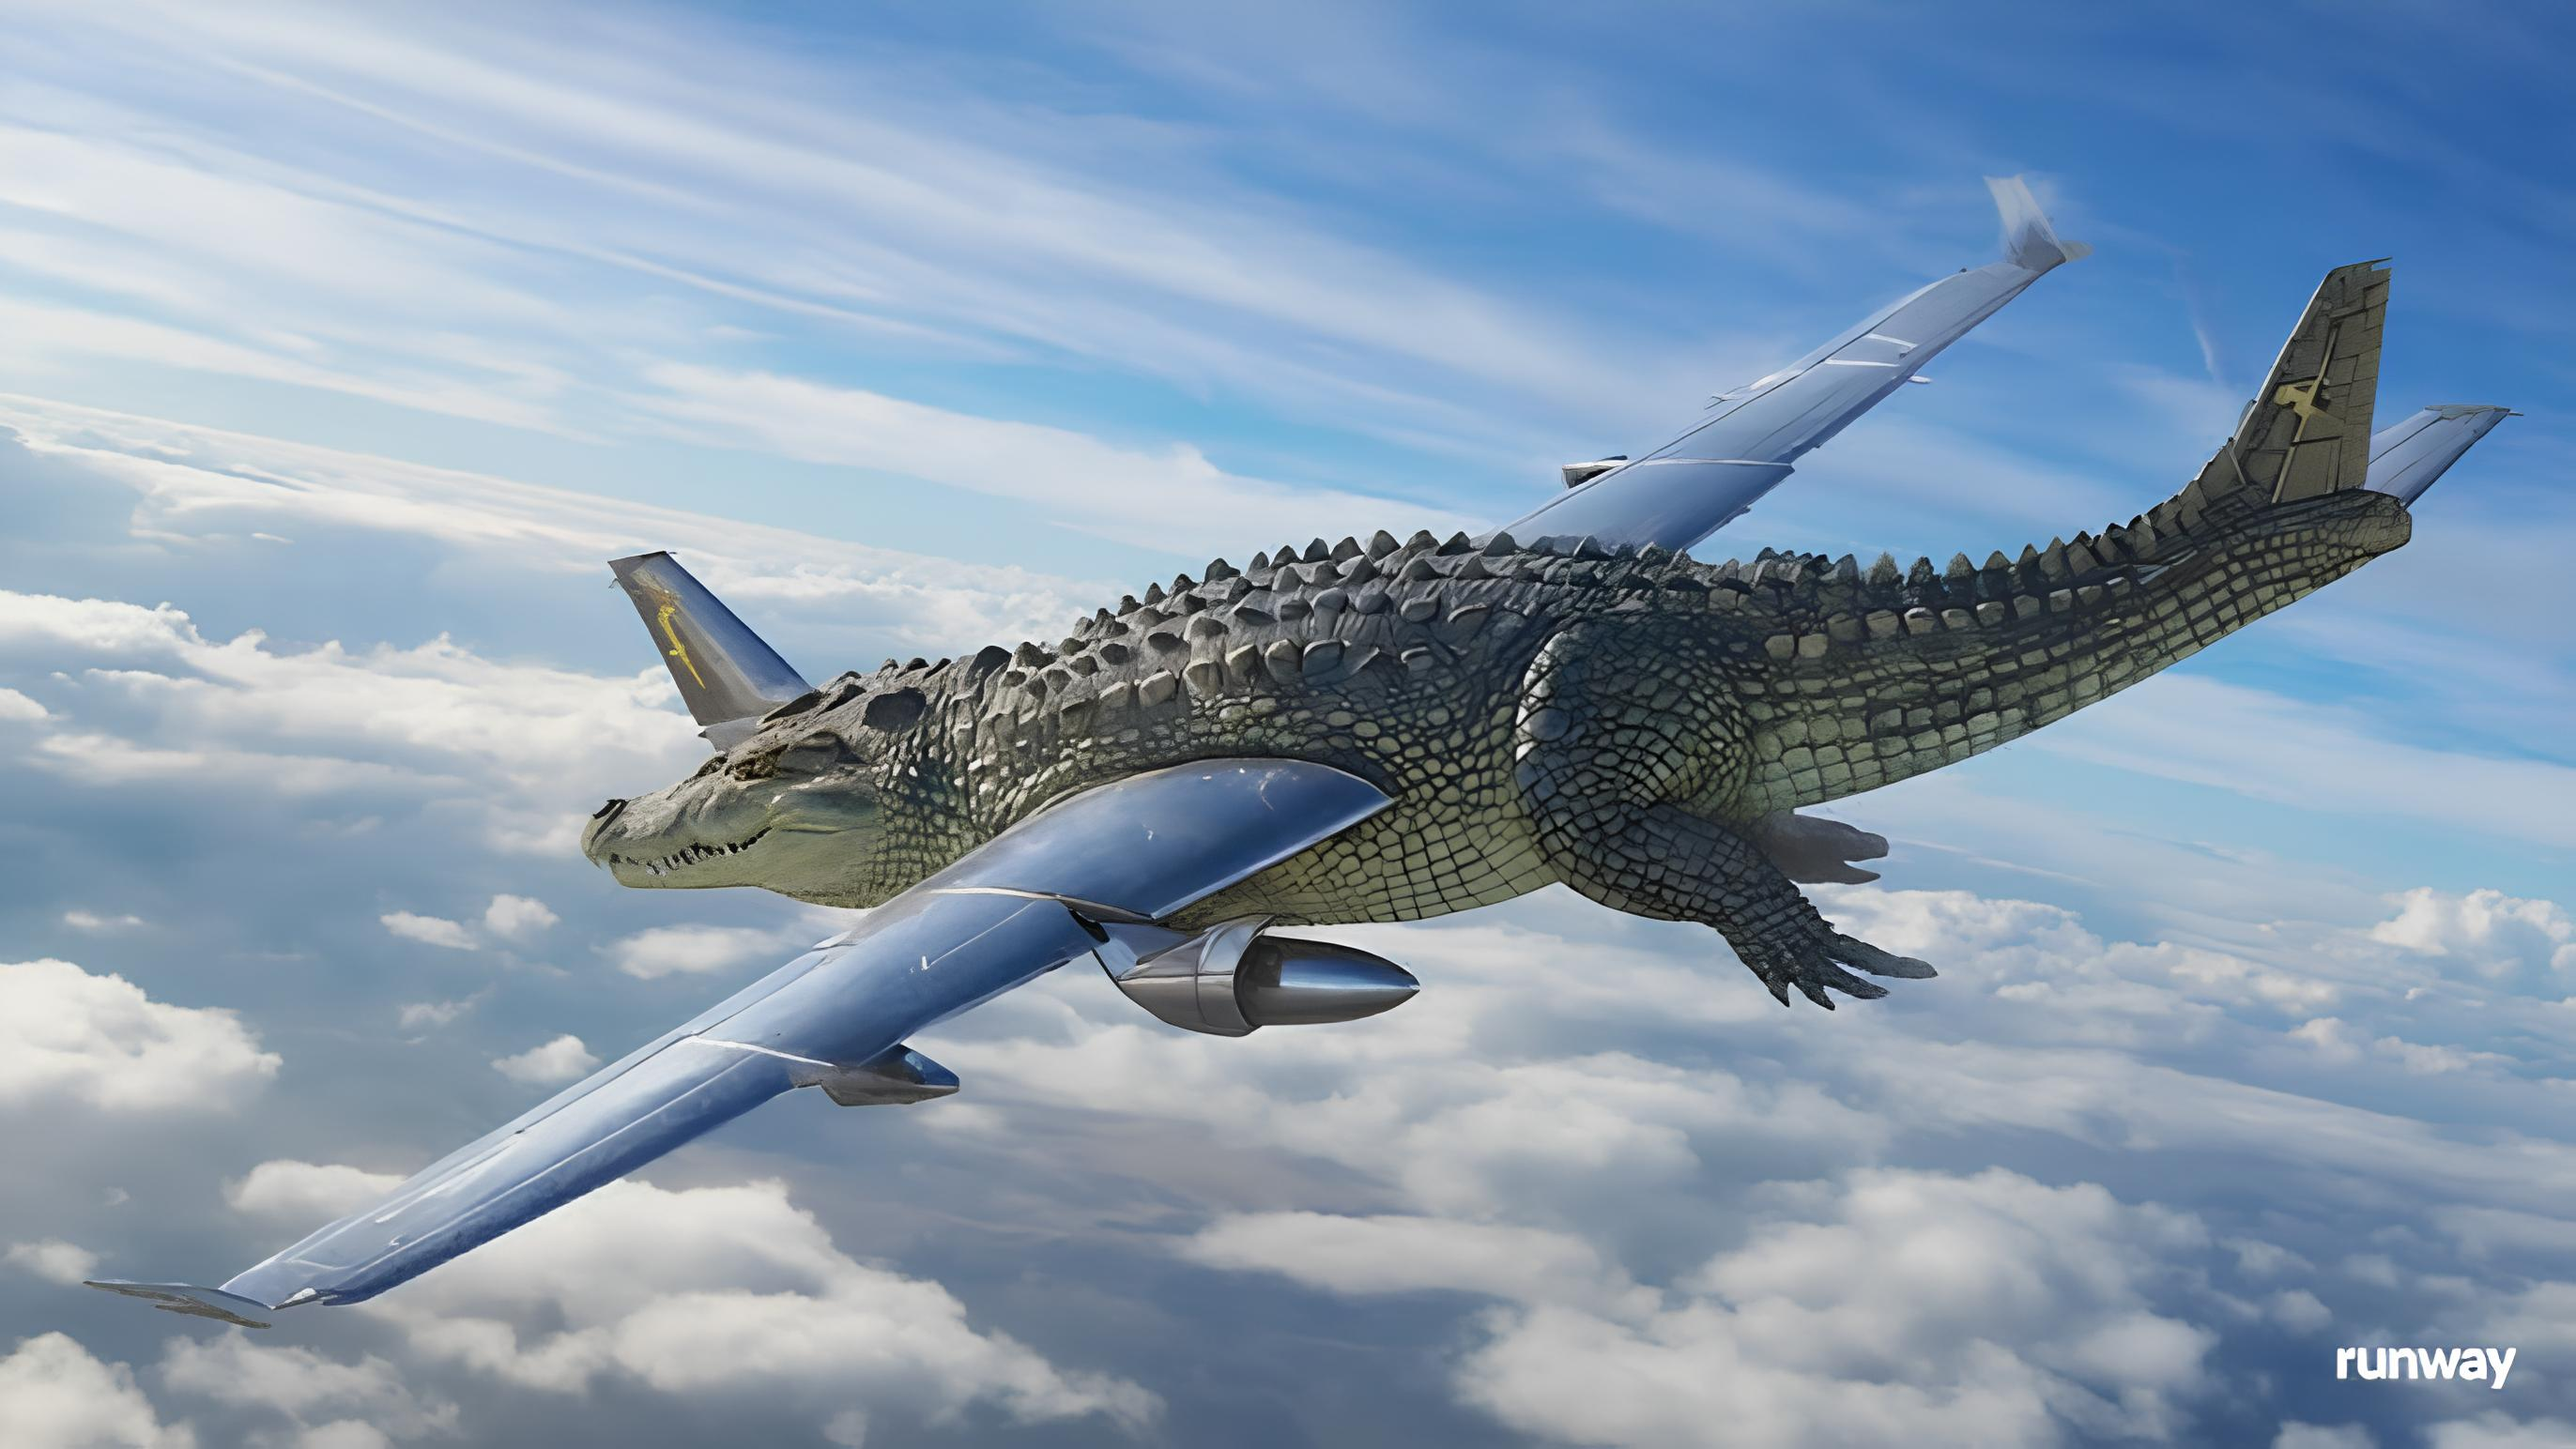
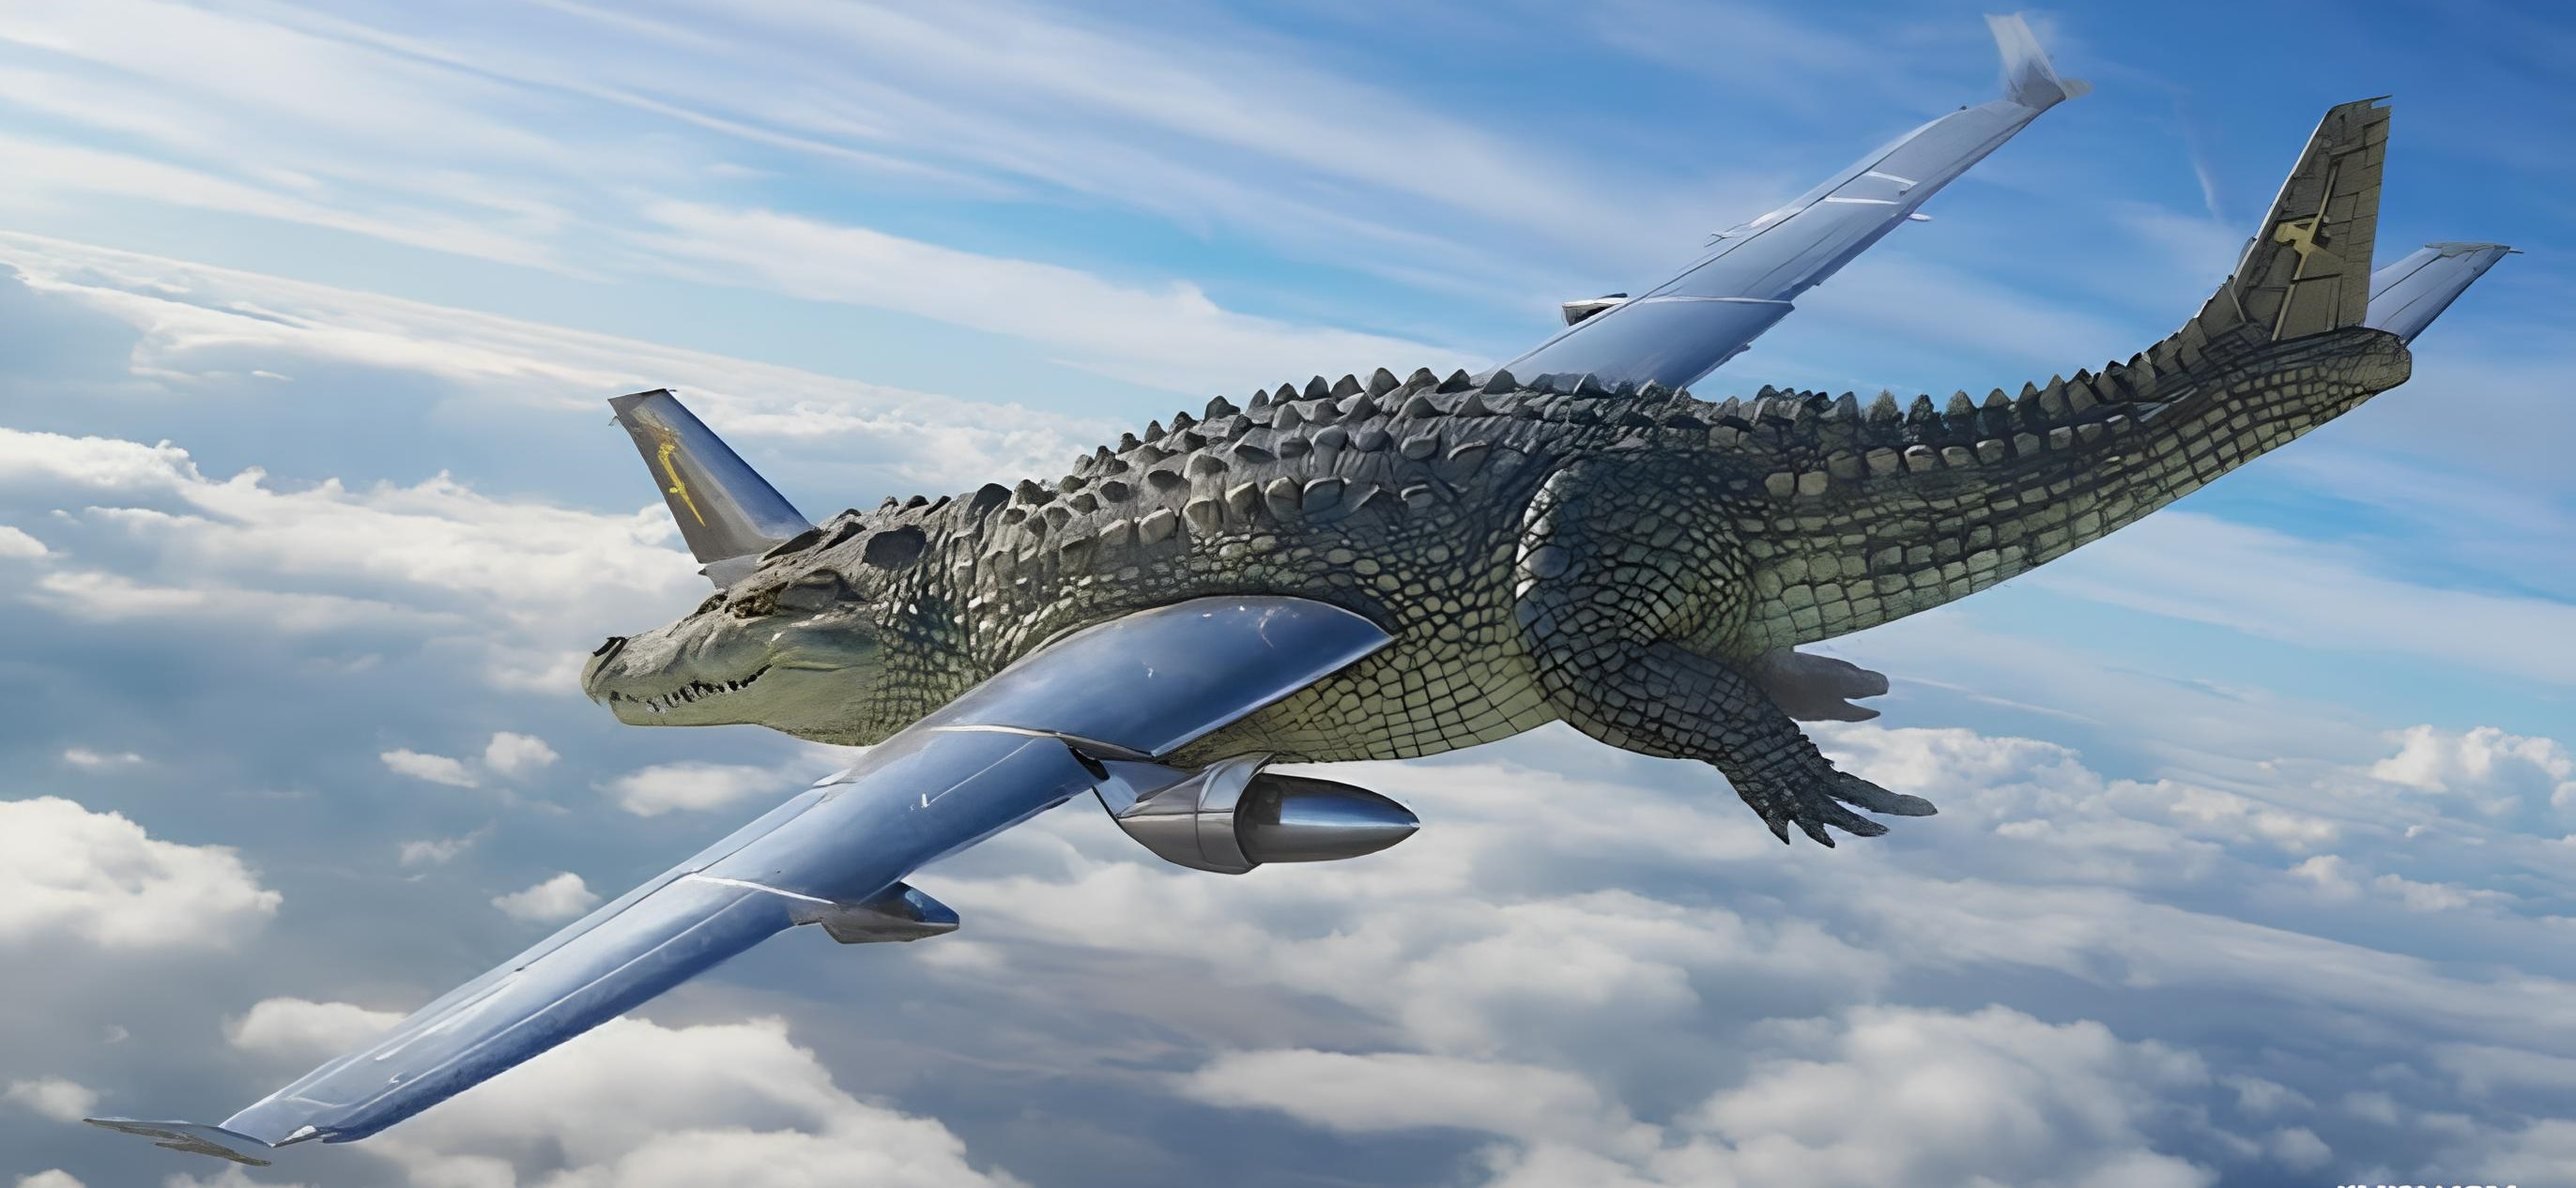
qualcosa

diff --git a/auro/homepage.html b/auro/homepage.html
@@ -103,7 +103,7 @@
      <!-- hero (?) -->
     <div
       class="hero-wrap ftco-degree-bg"
-      style="background-image: url('../auro/imgHome/coccodrillo.jpg')"
+      style="background-image: url('../auro/imgHome/111.jpg')"
       data-stellar-background-ratio="0.5"
     >
       <div class="overlay"></div>
